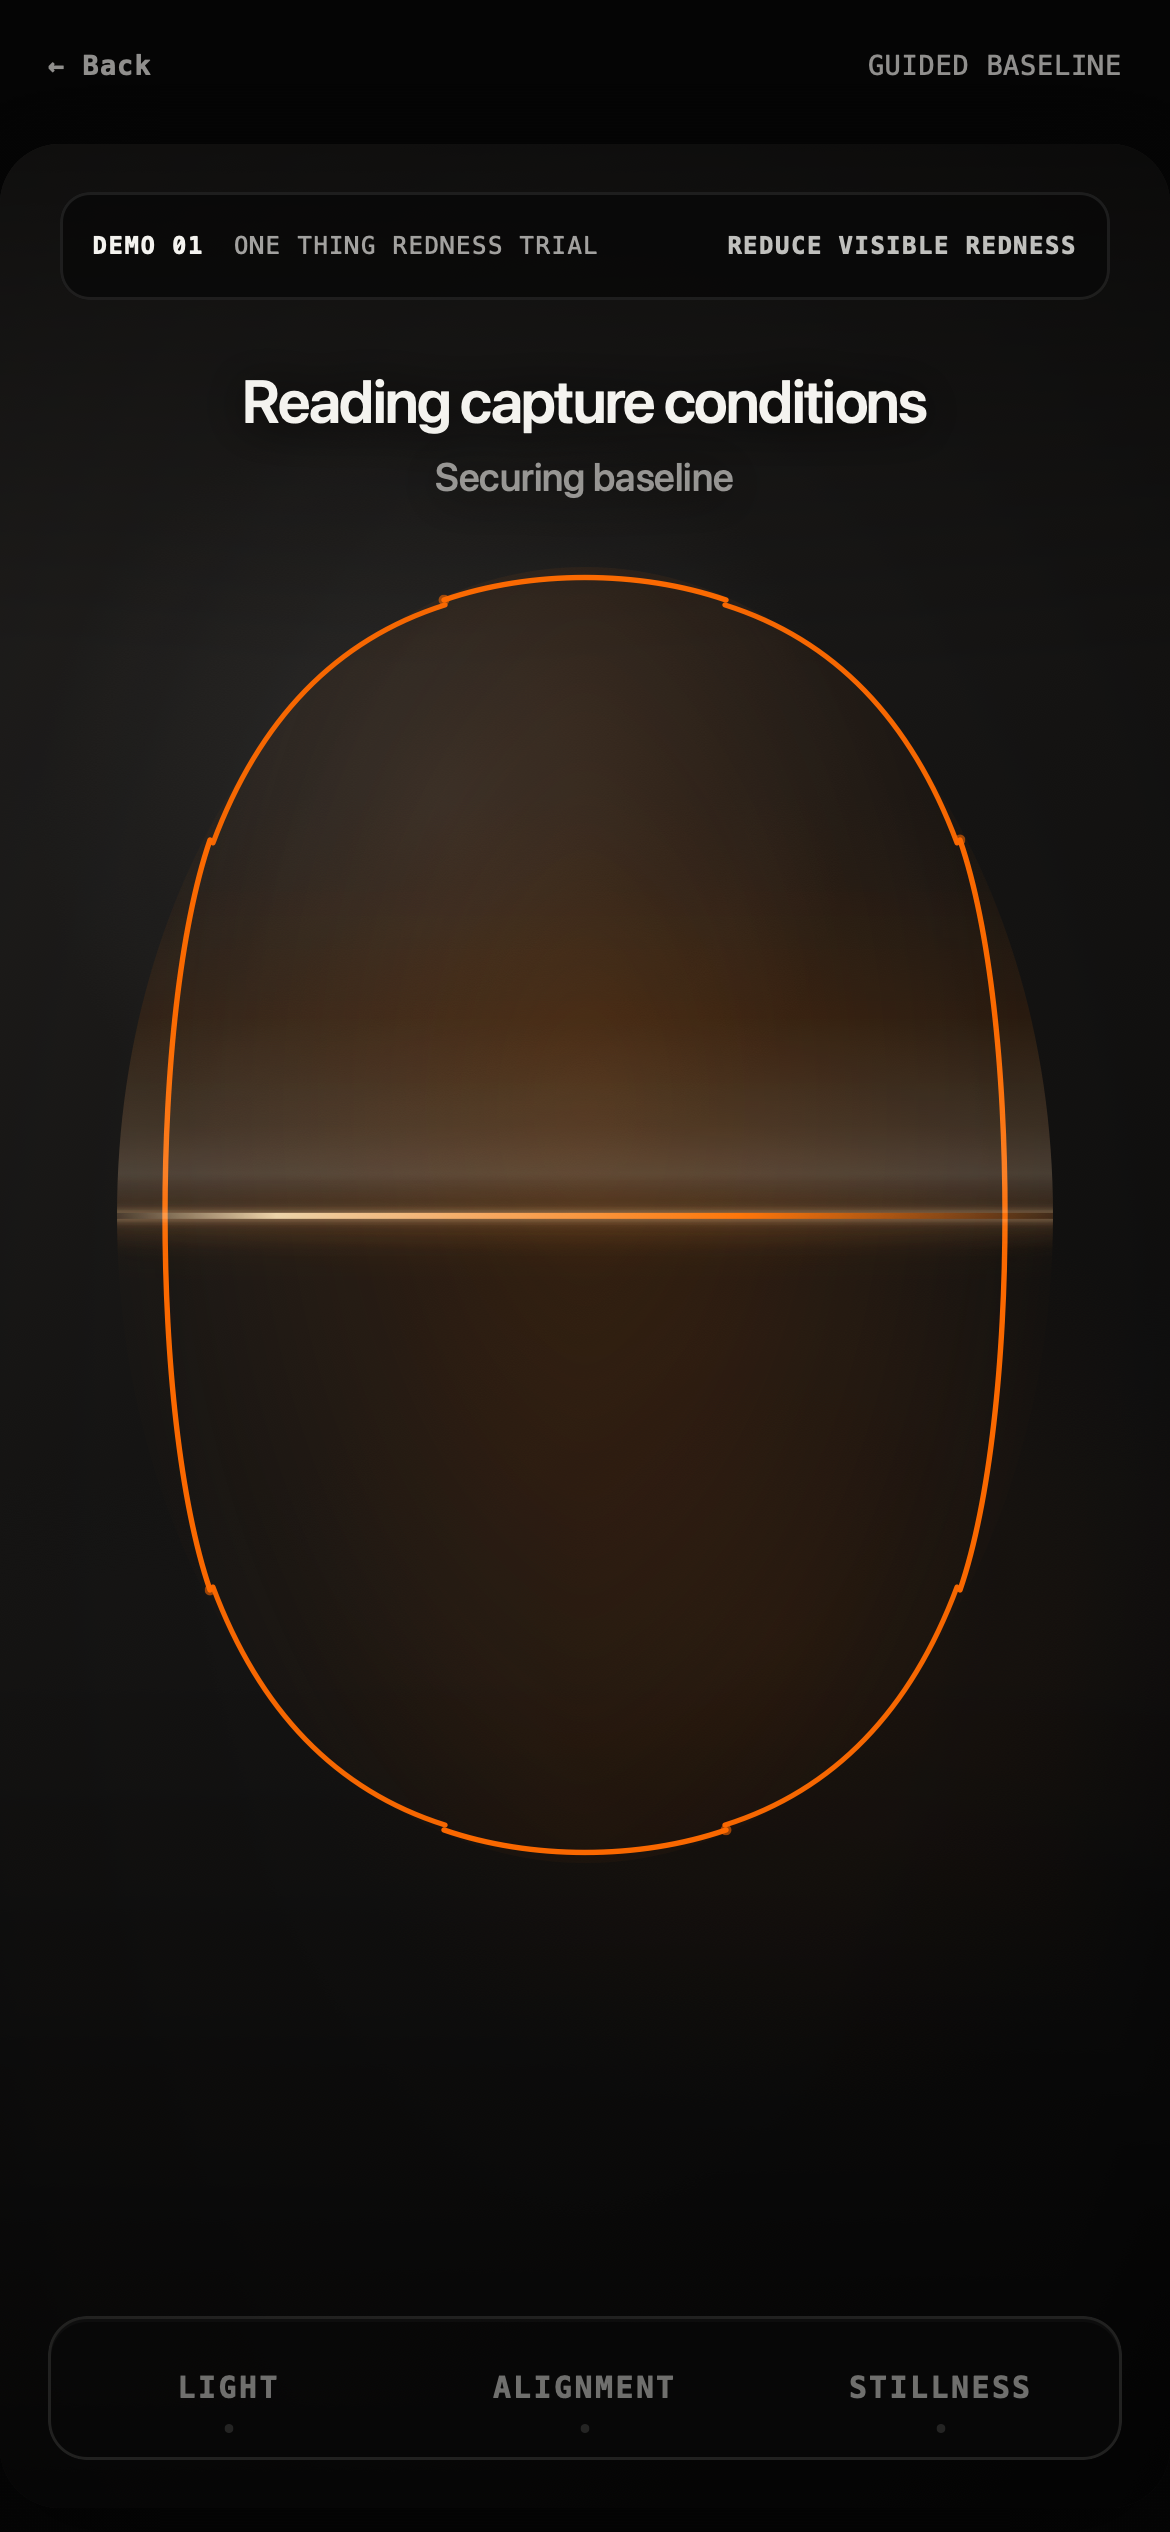
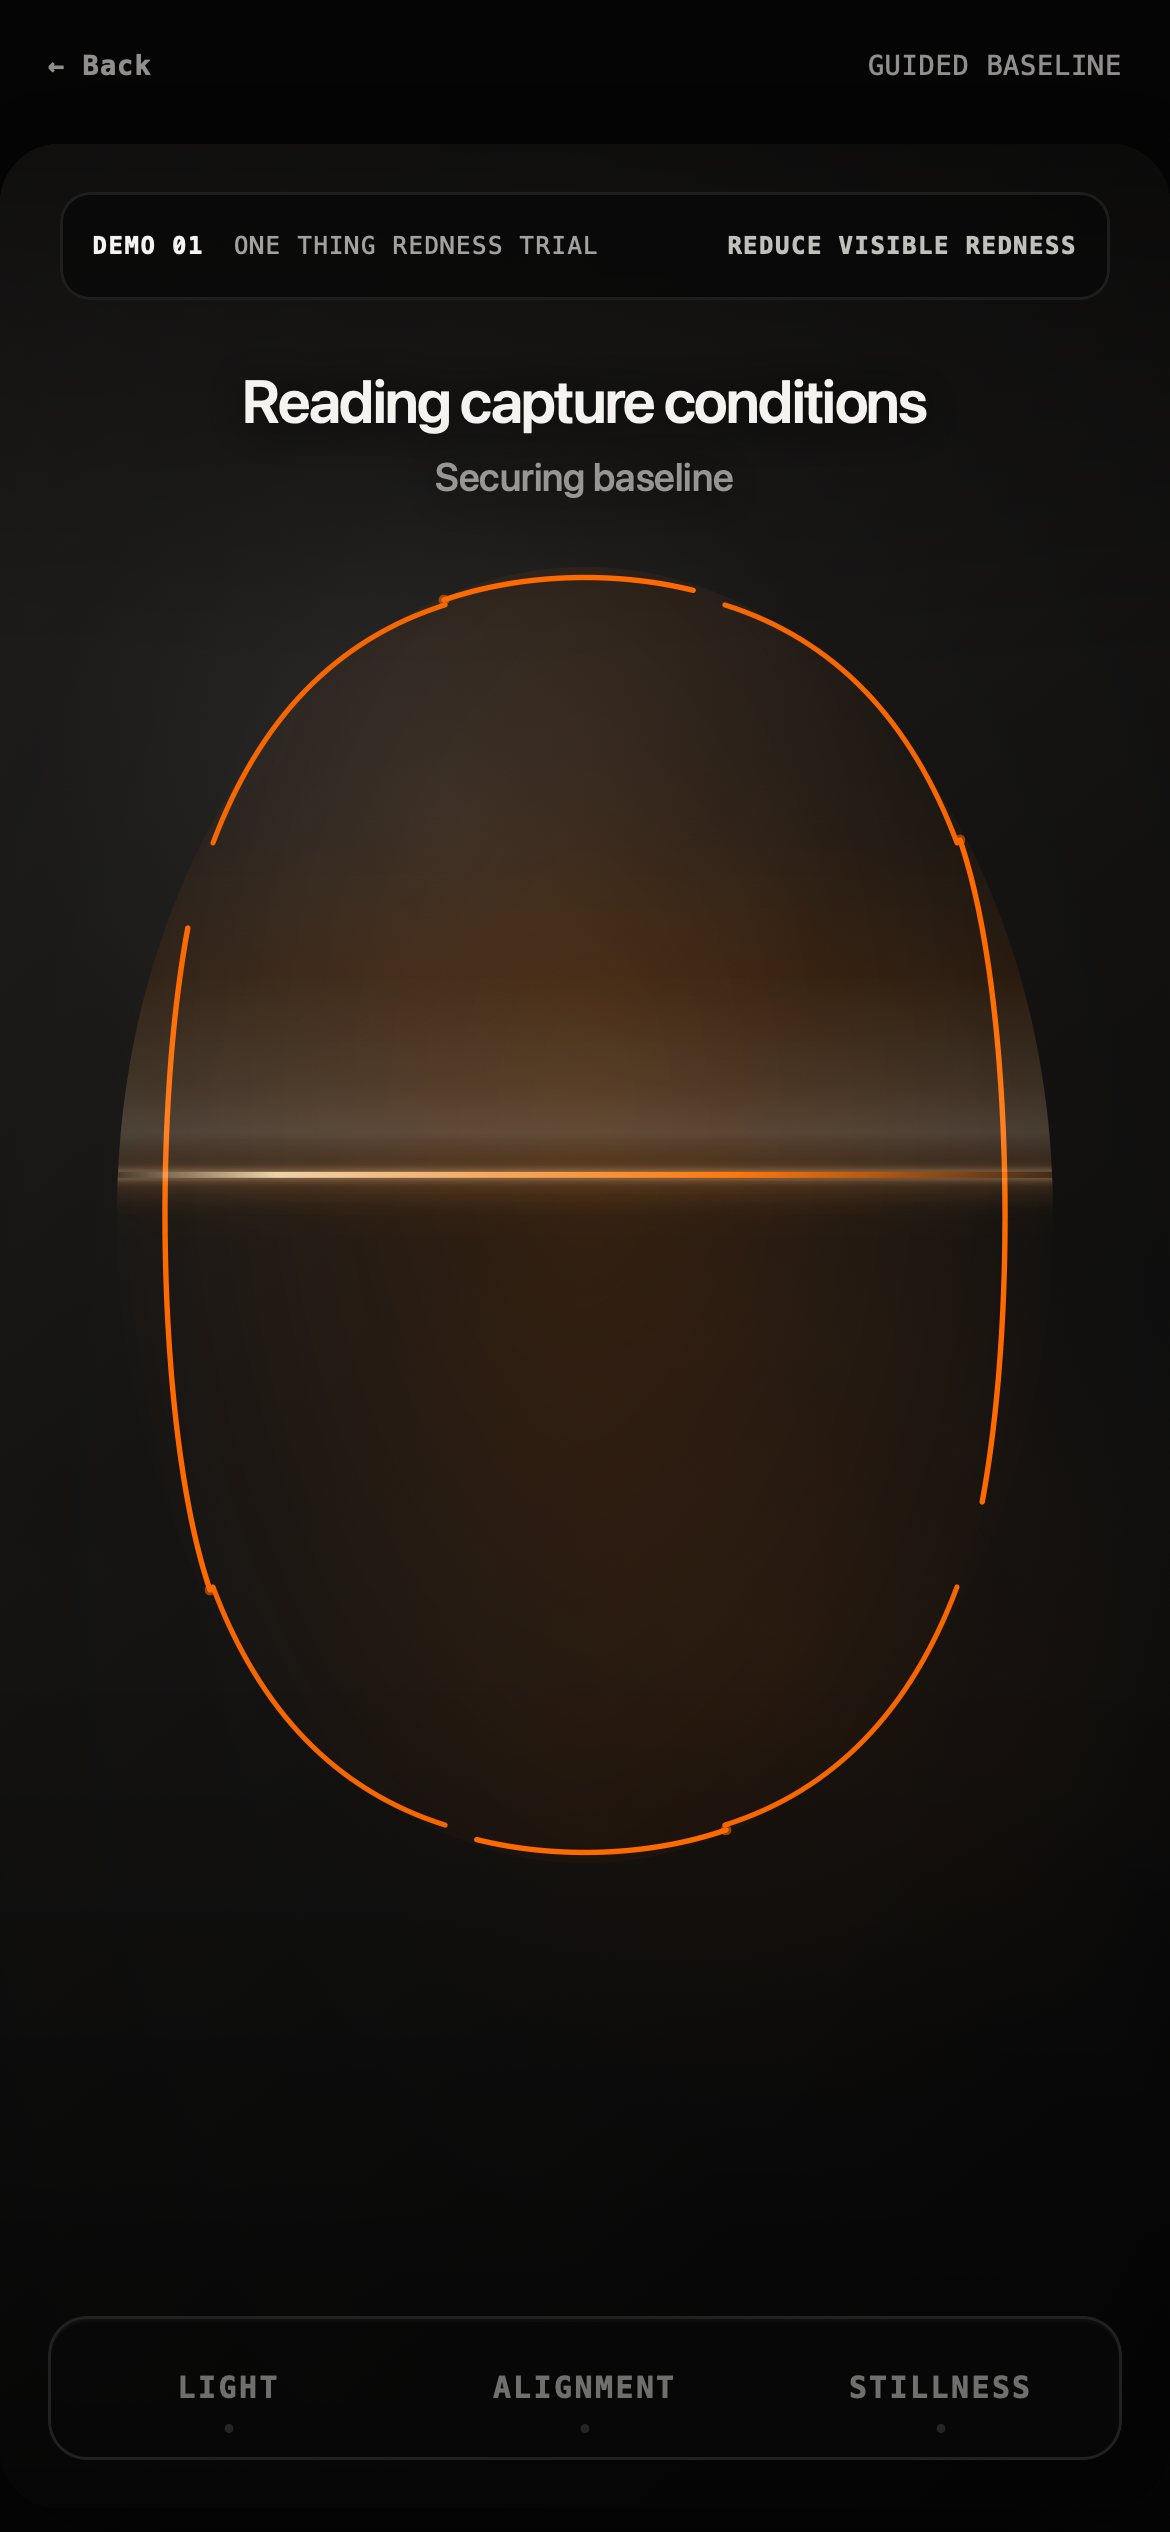
Stabilize WebKit visual milestones

Changed region(s): [[0.0923, 0.4368, 0.8923, 0.4992], [0.8308, 0.5928, 0.8615, 0.624], [0.1538, 0.3432, 0.1846, 0.3744]]

diff --git a/e2e/capture-sequence.spec.ts b/e2e/capture-sequence.spec.ts
@@ -146,18 +146,14 @@ async function saveEvidence(
   });
 }
 
-async function pauseAnimationAt(locator: Locator, currentTime: number): Promise<void> {
-  await locator.evaluate((element, time) => {
-    const animations = element.getAnimations();
-    if (animations.length === 0) {
-      throw new Error('Expected a CSS animation to verify');
-    }
-    for (const animation of animations) {
-      animation.pause();
-      animation.currentTime = time;
-    }
-    void getComputedStyle(element).transform;
-  }, currentTime);
+async function setStaticVisualStyle(
+  locator: Locator,
+  style: Record<string, string>,
+): Promise<void> {
+  await locator.evaluate((element, frozenStyle) => {
+    Object.assign((element as SVGElement | HTMLElement).style, frozenStyle);
+    void element.getBoundingClientRect();
+  }, style);
 }
 
 async function advanceVisualClock(page: Page, milliseconds: number) {
@@ -658,24 +654,39 @@ test('visual regression: all canonical phases, permission error, and reduced mot
   await expect(page.locator('[data-guide-connector]')).toHaveCount(4);
   await expect(page.locator('[data-capture-guide-anchor]')).toHaveCount(4);
   await expect(page.locator('[data-face-acquisition-guide] ellipse')).toHaveCount(0);
-  await pauseAnimationAt(page.locator('[data-capture-guide-connectors]'), 180);
+  // Seeking a CSS animation timeline makes Linux WebKit's screenshot
+  // compositor intermittently omit unrelated layers. Freeze the authored
+  // milestone as ordinary styles so the snapshot measures the product, not
+  // the runner's animation compositor.
+  await setStaticVisualStyle(page.locator('[data-capture-guide-connectors]'), {
+    animation: 'none',
+    opacity: '1',
+    strokeDashoffset: '12',
+  });
   await expect.soft(captureScreen).toHaveScreenshot('capture-locking.png', {
-    animations: 'allow',
+    animations: 'disabled',
     maxDiffPixels: 64,
   });
-  await saveEvidence(captureScreen, 'locking.png', 'allow');
+  await saveEvidence(captureScreen, 'locking.png');
 
   await advanceVisualClock(page, 730);
   await expect(chassis).toHaveAttribute('data-capture-phase', 'scanning');
   // The damped bottle-scanner easing reaches the visual midpoint before the
   // temporal midpoint; pause where the amber leading edge crosses the face field.
-  await pauseAnimationAt(page.locator('[data-capture-scan-optic]'), 300);
-  await pauseAnimationAt(page.locator('[data-capture-scan-atmosphere]'), 300);
+  await setStaticVisualStyle(page.locator('[data-capture-scan-optic]'), {
+    animation: 'none',
+    opacity: '1',
+    transform: 'translate3d(0, 147%, 0)',
+  });
+  await setStaticVisualStyle(page.locator('[data-capture-scan-atmosphere]'), {
+    animation: 'none',
+    opacity: '1',
+  });
   await expect.soft(captureScreen).toHaveScreenshot('capture-scanning.png', {
-    animations: 'allow',
+    animations: 'disabled',
     maxDiffPixels: 24,
   });
-  await saveEvidence(captureScreen, 'scanning.png', 'allow');
+  await saveEvidence(captureScreen, 'scanning.png');
 
   await advanceVisualClock(page, 900);
   await expect(chassis).toHaveAttribute('data-capture-phase', 'captured');

diff --git a/src/features/capture-sequence/CaptureSequence.module.css b/src/features/capture-sequence/CaptureSequence.module.css
@@ -6,8 +6,6 @@
   width: 100%;
   min-width: 0;
   min-height: 0;
-  /* Keep WebKit's promoted camera and SVG layers inside this chamber. */
-  contain: paint;
   overflow: hidden;
   border: 0;
   border-radius: min(7.18cqw, 28px);
@@ -221,7 +219,7 @@
   display: block;
   width: 100%;
   height: 100%;
-  overflow: hidden;
+  overflow: visible;
 }
 
 .guideSegments,
@@ -265,11 +263,13 @@
   stroke: var(--fv-capture-accent);
   stroke-dasharray: 100;
   stroke-width: 1.8px;
+  filter: drop-shadow(0 0 3px rgba(255, 106, 0, 0.2));
 }
 
 .guideAnchors {
   fill: var(--fv-capture-accent);
   opacity: 0;
+  filter: drop-shadow(0 0 3px rgba(255, 106, 0, 0.42));
   transition: opacity 140ms ease;
 }
 
@@ -311,6 +311,7 @@
   .guideSegments
   path:is([data-guide-segment='lower-left'], [data-guide-segment='lower-right']) {
   stroke: var(--fv-capture-accent);
+  filter: drop-shadow(0 0 3px rgba(255, 106, 0, 0.26));
 }
 
 .guideField:is(
@@ -344,6 +345,7 @@
 .guideField[data-guide-phase='locking'] .guideSegments path,
 .guideField[data-guide-phase='scanning'] .guideSegments path {
   stroke: var(--fv-capture-accent);
+  filter: drop-shadow(0 0 3px rgba(255, 106, 0, 0.25));
 }
 
 .guideField[data-guide-phase='locking'] .guideAnchors {
